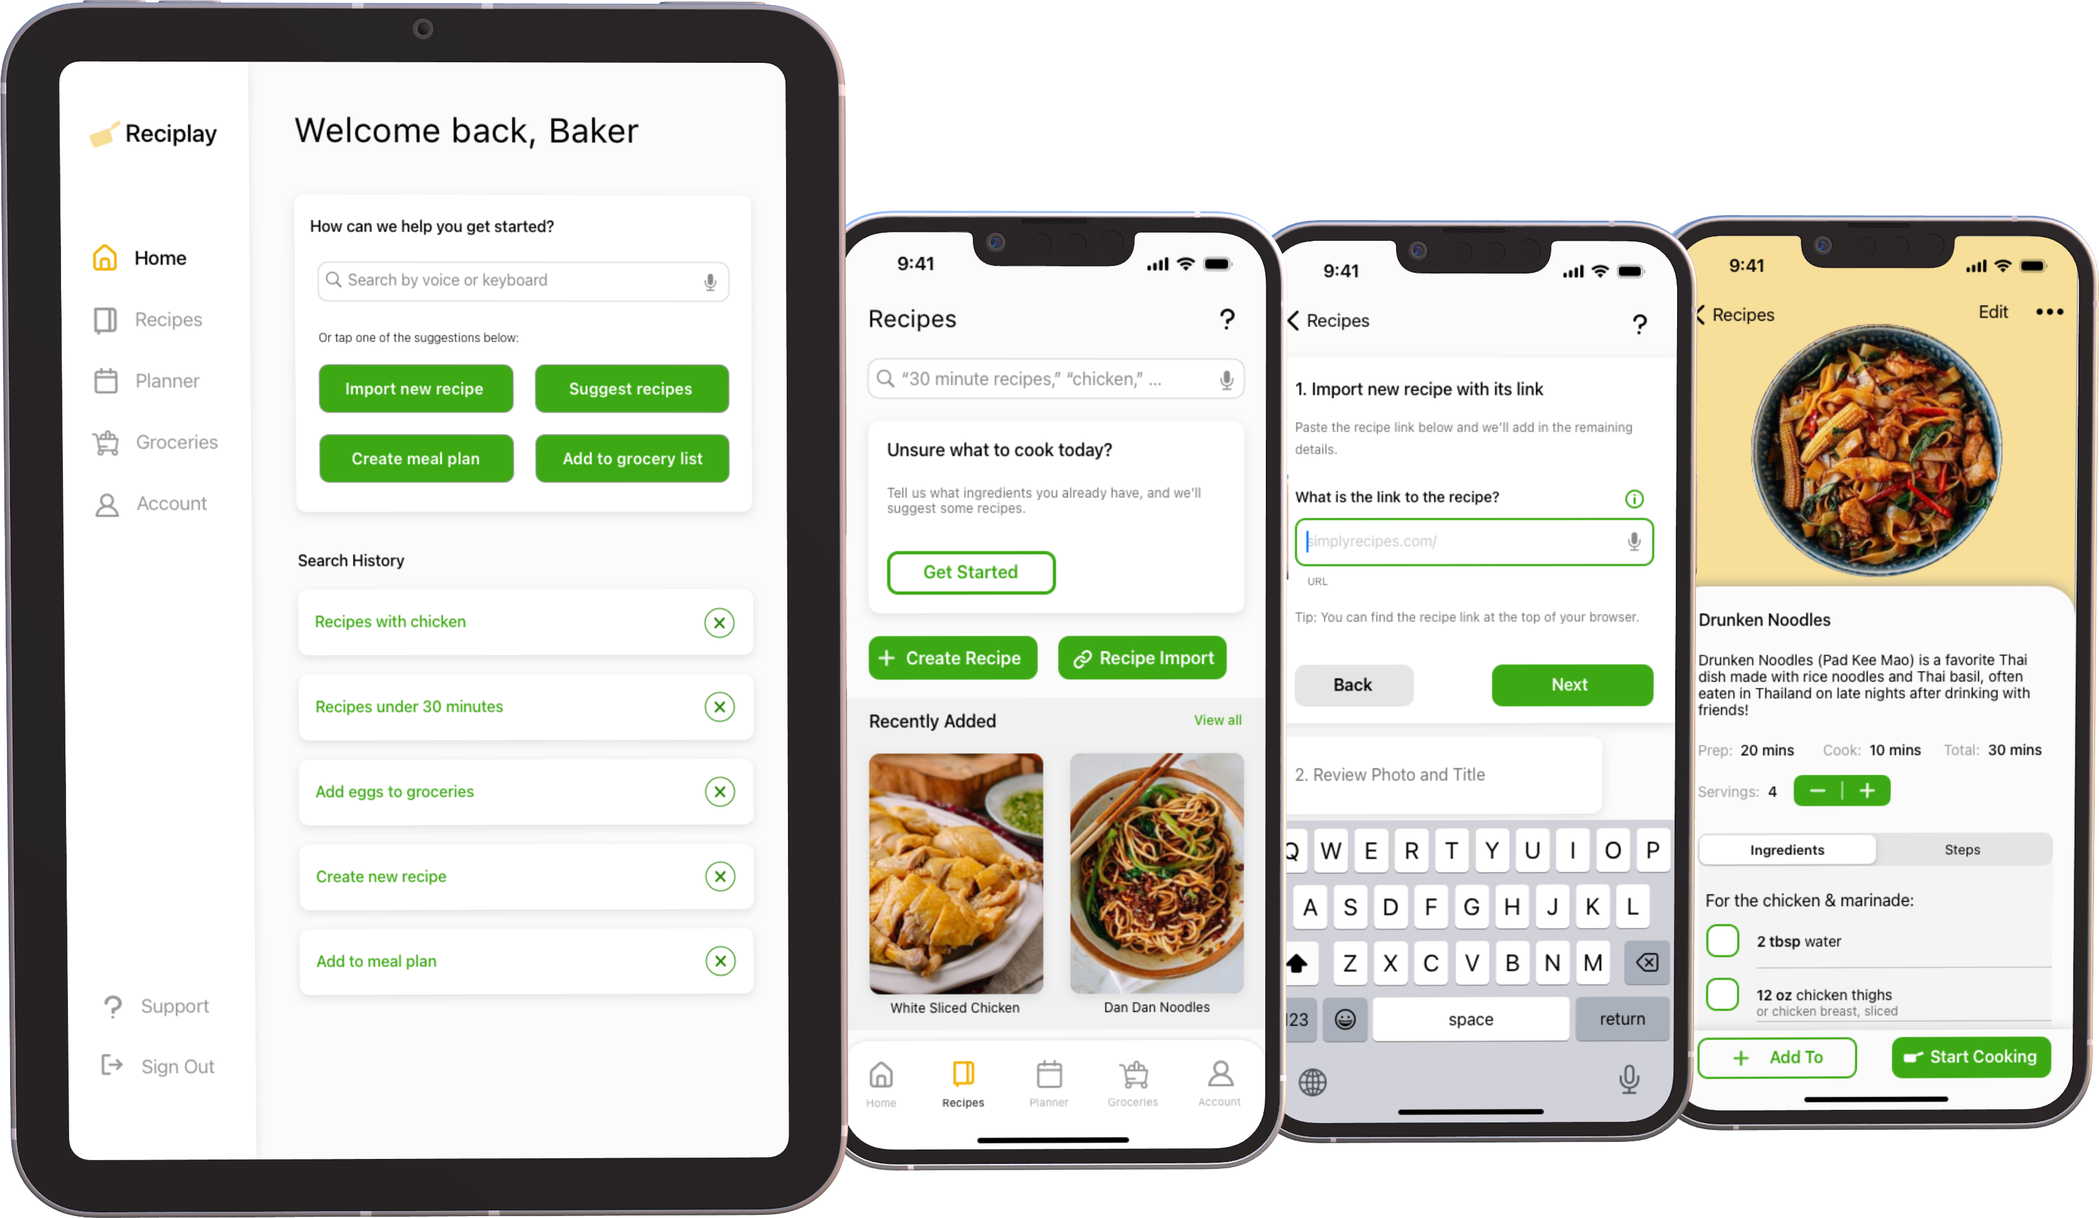
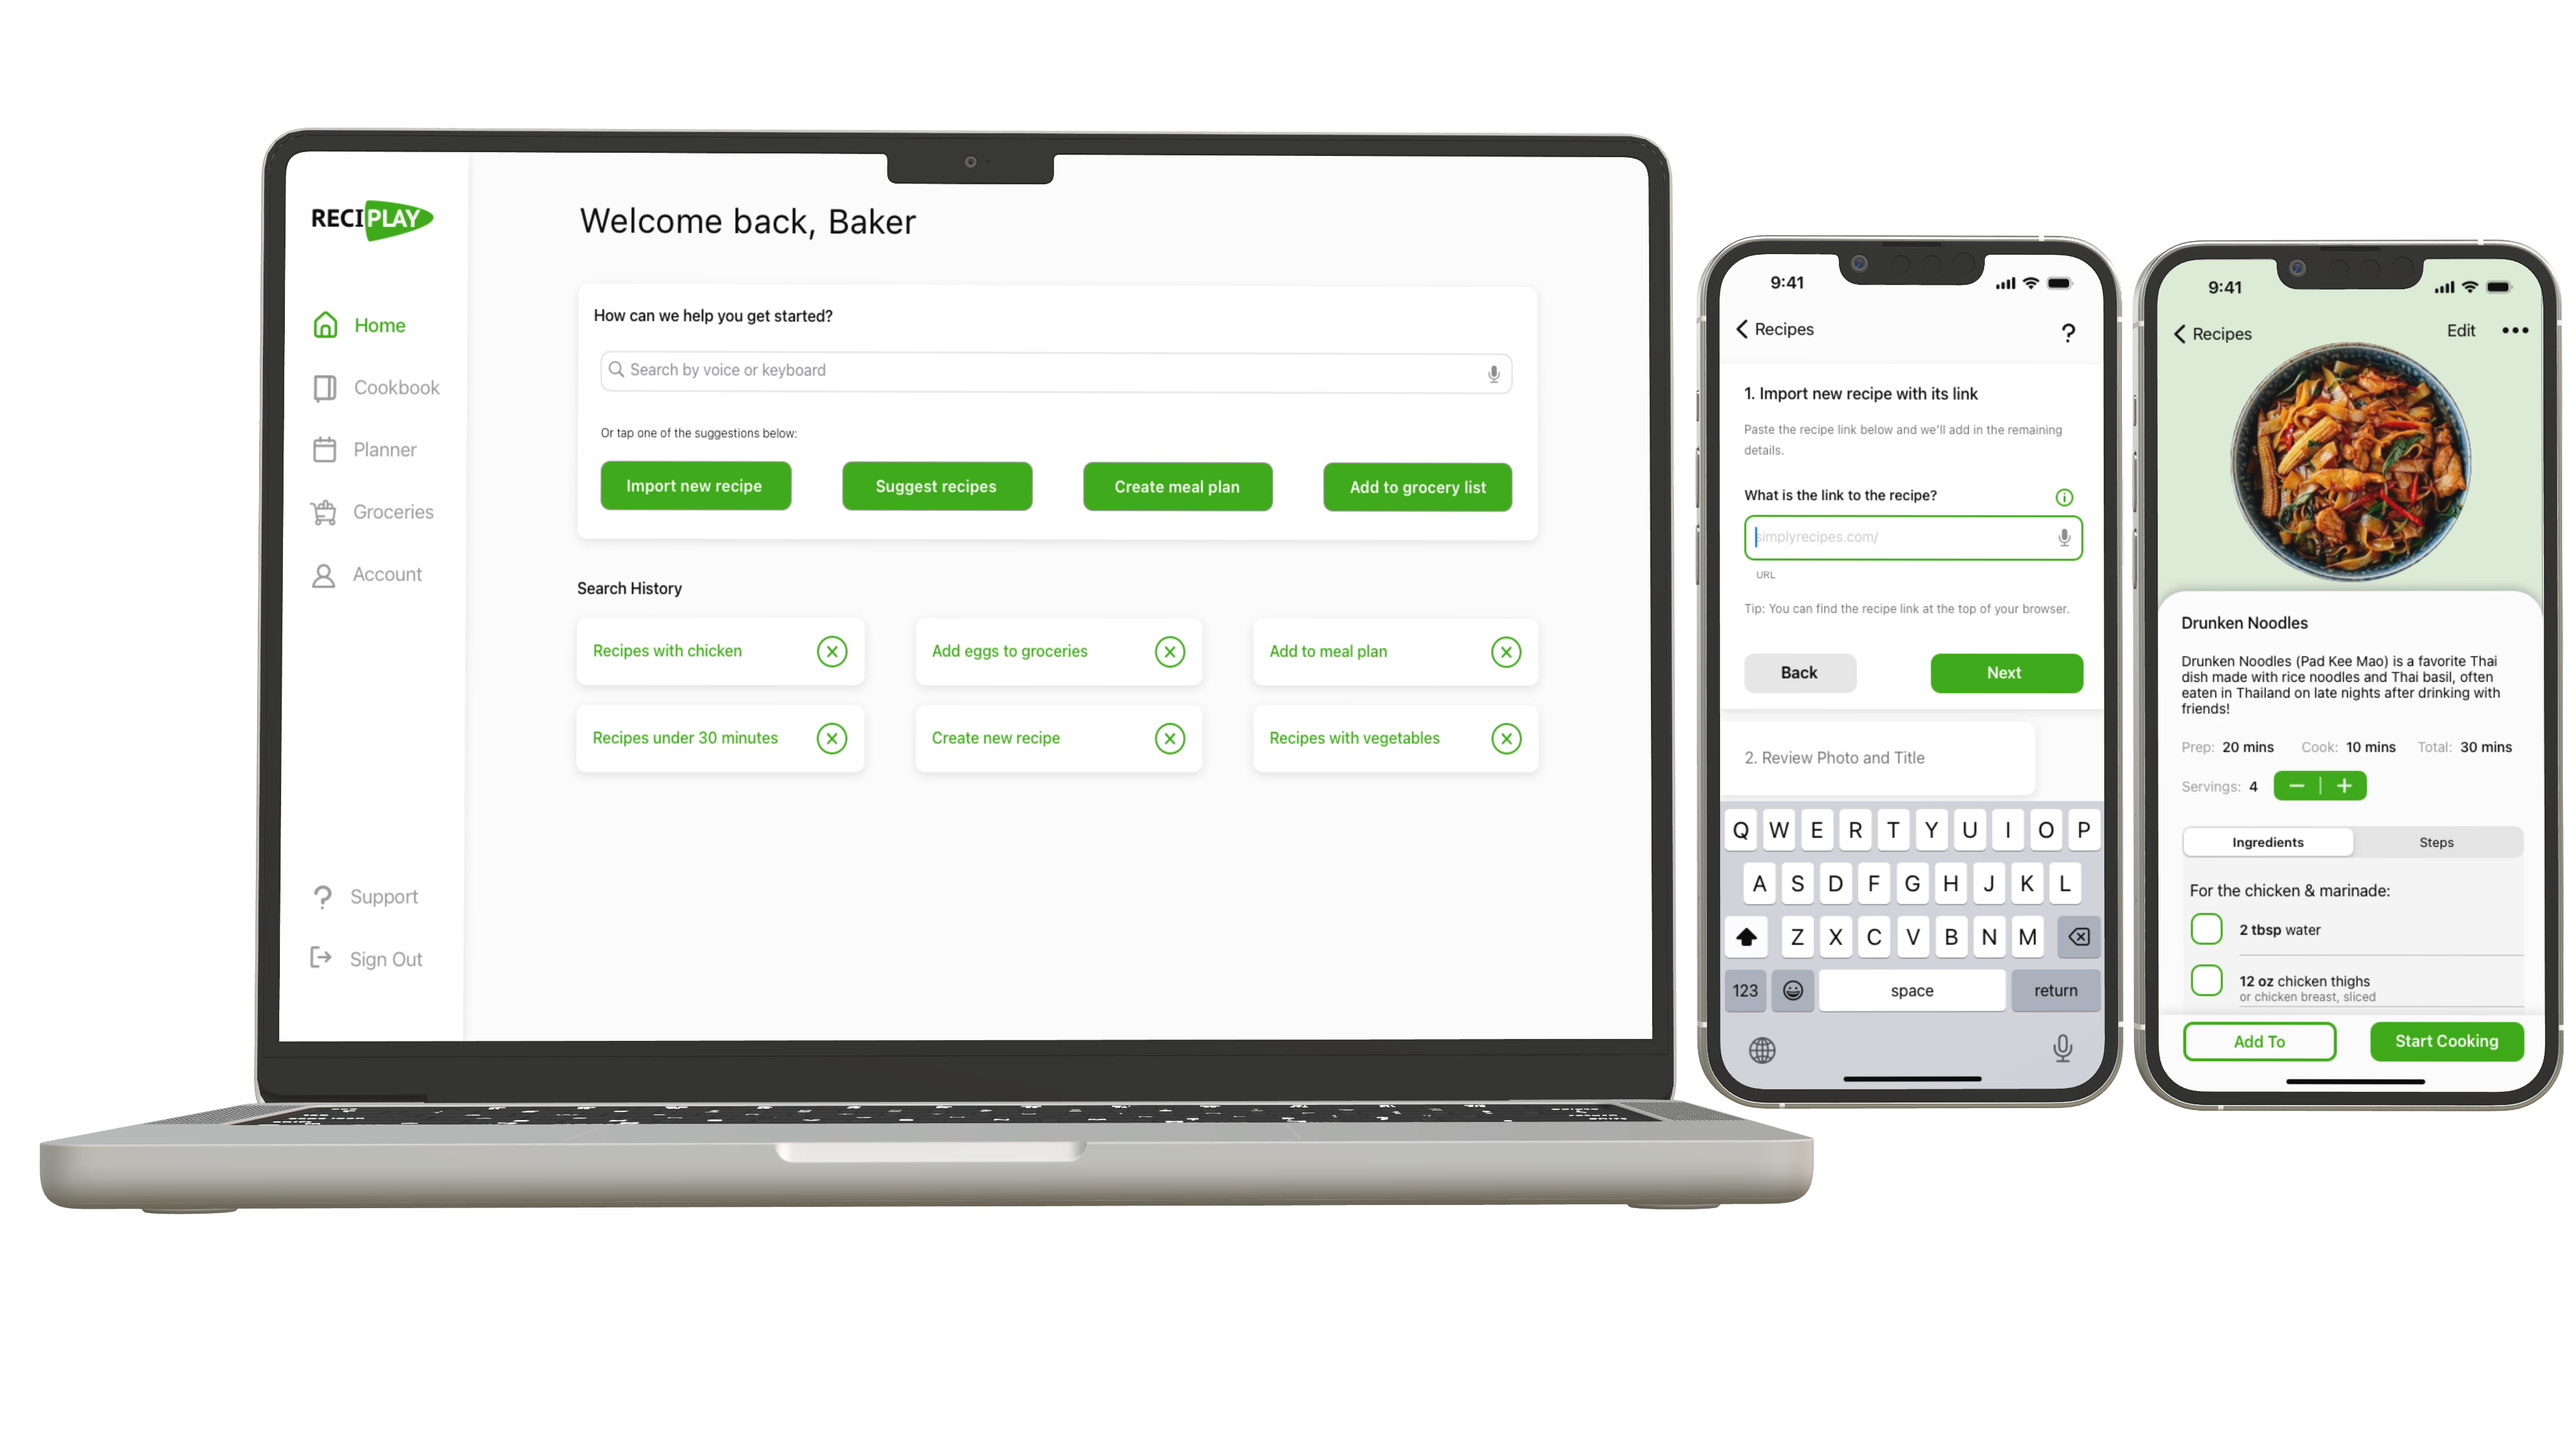
revision of cases

diff --git a/_layouts/case.html b/_layouts/case.html
@@ -91,6 +91,9 @@ layout: default
                     {% if page.overview.list %}
                     {% assign style = style | append: " work-img-list-linear" %}
                     {% endif %}
+                    {% if page.overview.row %}
+                    {% assign style = style | append: " work-img-list-row" %}
+                    {% endif %}
                     <div class='{{style}}'>
                         {% for example in page.overview.examples %}
                         <div class='work-img-list-block'>
@@ -486,7 +489,8 @@ layout: default
     </div>
     <div class='work-bottom-descriptions'>
         <div class='work-bottom-descriptions-inner work-wrapper work-cols'>
-            {% for case in site.cases %}
+            {% assign ordered_cases = site.cases | sort:"order_number" %}
+            {% for case in ordered_cases %}
             <div>
                 {% if case.title == page.title %}
                 <a class="work-bottom-descriptions-selected" href='{{case.url}}'>{{case.description}}</a>

diff --git a/_sass/default/_cases.scss b/_sass/default/_cases.scss
@@ -270,6 +270,33 @@
   }
 }
 
+.work-img-list-row {
+  display: flex;
+  flex-direction: row;
+  gap: $spacing-unit * 5;
+
+  @include media-query($on-palm) {
+    gap: $spacing-unit * 3;
+  }
+
+  @include media-query($on-tiny) {
+    flex-direction: column;
+    gap: $spacing-unit;
+  }
+}
+
+.work-img-list-row .work-img-list-block {
+  display: block;
+}
+
+.work-img-list-row .work-img-list-img {
+  min-width: 0;
+
+  @include media-query($on-tiny) {
+    margin: 0 auto;
+  }
+}
+
 // Captioned-Image
 
 .work-captioned-image {

diff --git a/index.html b/index.html
@@ -54,7 +54,8 @@ layout: default
     </div>
     <h1 id="work" class='hidden'>Work</h1>
     <div class='home-projects'>
-        {% for case in site.cases %}
+        {% assign ordered_cases = site.cases | sort:"order_number" %}
+        {% for case in ordered_cases %}
         <div class='home-project-container'>
             <div class='home-project home-project-{{case.name}}'>
                 <div class='home-project-inner home-wrapper'>

diff --git a/assets/nycbest/style.css b/assets/nycbest/style.css
@@ -15,5 +15,5 @@
 }
 
 .work-details-logo img {
-    max-height: 55px;
+    max-height: 80px;
 }

diff --git a/_cases/nycbest.md b/_cases/nycbest.md
@@ -1,5 +1,6 @@
 ---
 layout: case
+order_number: 3
 name: nycbest
 title: NYC's Best
 description: Redefining the pet adoption process
@@ -19,19 +20,16 @@ banner:
   duration: Dec - Feb 2023
   tool: Adobe XD
 overview:
-  problem: "Finding our new furry best friend and family member is one of the biggest decisions we make in our lives, yet available pet adoption sites often fail to reflect that reality. Whether you’re experienced or a first-time pet parent, you likely have your own, unique criteria that you’re looking for. Yet, **why is it so difficult to browse pet adoption sites?**"
+  problem: "Finding our new furry best friend and family member is one of the biggest decisions we make in our lives, yet existing pet adoption sites often fail to reflect that reality. Whether you’re experienced or a first-time pet parent, you likely have your own, unique criteria that you’re looking for. So, **why is it so difficult to browse pet adoption sites?**"
   examples:
-    - description: It often takes multiple clicks, each opening a new tab, to even reach the list of adoptable pets. Aside from the amount of clicks needed, the information is also cluttered and overwhelming to skim.
-      image: example1.png
+    - image: example1.png
       caption: Layout of existing pet adoption site
       rounded: true
-    - description: These sites often only cater to a specific user context– those using a computer–and fail to consider the needs of those accessing from a phone or tablet.
-      image: example2.png
   list: true
   solution:
     title: Redesigning the adoption flow
     description:
-      - paragraph: These pain points led me to to design a responsive website for a local pet adoption organization. Let’s call it NYC’s Best, a no-kill animal shelter with three locations in New York City. They are dedicated to rescuing, rehabilitating, and finding forever homes for homeless and abandoned cats, dogs, and rabbits.
+      - paragraph: My pain points with cluttered, overwhelming pet adoption sites led me to to design a responsive website for a local pet adoption organization. Let’s call it NYC’s Best, a no-kill animal shelter with three locations in New York City. They are dedicated to rescuing, rehabilitating, and finding forever homes for homeless and abandoned cats, dogs, and rabbits.
       - paragraph: “We’d like to help our patrons through the pet-finding process by **providing search options that mirror their own criteria.**”
         quote: true
       - paragraph: To stand out in the market, I aimed to design a user-friendly, responsive website that features **clear navigation** and **an efficient search and adoption process**. Above all, I wanted it to be a positive experience that reflects the *excitement* of starting a new chapter in your life.
@@ -43,7 +41,7 @@ research:
   personas:
     - title: The Dog Adopter
       age: 28
-      job: Dental hygienist
+      job: Dental Hygienist
       image: portrait1.png
       description:
         - Niamh is a dental hygienist at a clinic in Detroit. She’s finally reached a place in her life where she feels more settled, with a stable job and relationship. She’s always wanted to adopt a dog but wanted to wait until she felt ready.
@@ -53,8 +51,8 @@ research:
       job: College Senior
       image: portrait2.png
       description:
-        - Winston is a senior in college living in Seattle. He didn’t grow up with pets but he’s interested in adopting a cat because he’s heard that cats are better for first-time pet parents.
-        - He doesn’t know where to start so he’s looked at multiple animal shelter sites but decided to just go to a shelter in person after seeing the limited filters, vague personality descriptions, and complex adoption processes.
+        - Winston is a senior in college living in Seattle. He’s interested in adopting a cat as a first-time pet parent.
+        - He’s not sure what characteristics to base his search on with the limited filters and vague personality descriptions on existing sites. He’d rather save time by going to the shelters themselves if it weren’t for unclear adoption processes.
   challenges:
     description: "I reframed the insights from the research as improvement opportunities for the NYC’s Best site:"
     list:

diff --git a/_cases/reciplay.md b/_cases/reciplay.md
@@ -1,5 +1,6 @@
 ---
 layout: case
+order_number: 1
 name: reciplay
 title: Reciplay
 description: Empowering users new to technology
@@ -21,16 +22,14 @@ banner:
 overview:
   problem: "*What should I cook today?* &nbsp;The age-old question. Countless cookbook sites and apps have been created to address this dilemma in the digital age, **but do they really cater to every user?**"
   examples:
-    - description: Existing cookbook apps are often cluttered and difficult to navigate, with an overwhelming amount of information on each screen. These solutions were designed for users who are familiar with technology and who already have an understanding of how to navigate from screen to screen, what’s tappable and what’s not, and more.
-      image: example1.png
+    - image: example1.png
       rounded: true
       small: true
-    - description: For users who are new to technology, however, knowing what icons mean or how to even begin are significant barriers to using these apps.
   list: true
   solution:
     title: A tailored solution
     description: 
-      - paragraph: With these barriers in mind, I wanted to design a cookbook tool specifically for users who are new to technology. My goal was to create a cross-platform experience that inspires and empowers users to enjoy the process of cooking and trying new recipes. The solution would cover all parts of the cooking process, with features like **URL import** and **a cooking mode**. For this project, I focused on recipe saving and viewing for the main user flow.
+      - paragraph: For users who are new to technology, knowing what icons mean or how to even begin are significant barriers to using cookbook apps. I sought to design a cross-platform experience that inspires and empowers new technology users to enjoy the process of cooking and trying new recipes. The solution would cover all parts of the cooking process, with features like **URL import** and **a cooking mode**. For this project, I focused on recipe saving and viewing for the main user flow.
       - paragraph: “We'd like to create an empowering cookbook tool for users who are new to technology that enables them **to save and view their favorite recipes in one place**”
         quote: true
 research:
@@ -47,7 +46,7 @@ research:
       job: Retired
       image: portrait1.png
       description:
-        - Leo is a recently retired hairstylist living in Hoboken with their two cats. Now that they are retired, they’ve been trying new recipes from a cookbook. They usually write a list of the ingredients needed for a few recipes and buy them all in one trip.
+        - Leo is a recently retired hairstylist living in Hoboken. Now that they are retired, they’ve been trying new recipes from a cookbook. They usually write a list of the ingredients needed for a few recipes and buy them all in one trip.
         - They’d be open to learning how to use a cookbook app if it did all the tedious work for them, like calculating ingredient amounts and creating grocery lists.
     - title: The App User
       age: 75
@@ -130,6 +129,12 @@ solution:
             caption: First mockup - responsive site (tablet)
           - image: solution2_5.png
             caption: Final design - responsive site (tablet)
+        - row:
+          - image: solution2_6.png
+            caption: First mockup - responsive site (desktop)
+        - row:
+          - image: solution2_7.png
+            caption: Final design - responsive site (desktop)
       after: To simplify the cognitive load of navigation and orient the user, I created a homepage with tappable discovery interfaces and text and voice search options to provide users with multiple modes of discovery and interaction. I used this format for both the mobile app and the responsive site for a consistent cross-platform experience.
 final_designs:
   - details:

diff --git a/_cases/nonna.md b/_cases/nonna.md
@@ -1,5 +1,6 @@
 ---
 layout: case
+order_number: 2
 name: nonna
 title: Nonna's
 description: "Designing a stand-out food ordering app"
@@ -19,14 +20,13 @@ banner:
   duration: Sept - Dec 2022
   tool: Figma
 overview:
-  problem: Ordering food online through an app like DoorDash or Uber Eats has become second nature for many of us. It’s quick, convenient, and simple–but **have you ever encountered an issue tracking an order through these third-party delivery apps?**
+  problem: "Ordering food online through an app like DoorDash or Uber Eats has become second nature for many of us. It’s quick, convenient, and simple -- but **have you ever encountered an issue tracking an order through these third-party delivery apps?**"
   examples:
-    - description: In some cases, restaurants handle the food delivery themselves so you don’t know when to expect your order, you’ll only be given a time frame of when it *should* arrive.
-      image: problem1.png
+    - image: problem1.png
       rounded: true
-    - description:  In other cases, there may be no couriers in the area to pick up your order from the restaurant.
-      image: problem2.png
+    - image: problem2.png
       rounded: true
+  row: true
   solution:
     title: Why not eliminate the middleman?
     description:
@@ -43,18 +43,18 @@ research:
   personas:
     - title: The New Grad
       age: 24
-      job: Software Engineer
+      job: Financial Analust
       image: portrait1.png
       description:
-        - Araya recently started a new career as a software engineer at a startup after finishing coding bootcamp. They use the time after work to learn new skills so they usually order food for dinner instead of cooking.
+        - Araya has been working as a financial analyst in NYC since graduating from college. They work late hours so they usually order dinner from the office or pick it up on the way home.
         - They get frustrated by the lack of information involved in the pickup process with apps like Seamless. They often arrive at the expected order completion time only to wait longer than expected.
     - title: The Multitasking Parent
       age: 45
       job: Nurse
       image: portrait2.png
       description:
-        - Horace is a nurse at a major hospital in the city. He recently had a health scare and has committed to cutting red meat out of his diet. His schedule can be unpredictable so he gets food from restaurants near the hospital.
-        - He prefers to order from the restaurant’s site but is often forced to choose another restaurant when there are no options to add notes to a menu item or the order itself.
+        - Horace is a single father working at a major hospital in the city. His schedule can be unpredictable so he prefers to order food from restaurants instead of getting groceries that may expire.
+        - He orders meals based on his daughter’s food preferences and schedule so he gets frustrated when there are no options to add notes or request cutlery.
   challenges:
     description: "After mapping out each step of these users’ journey, I discovered the following key challenges that weren’t addressed by third-party food delivery apps like Seamless and ChowNow:"
     list:

diff --git a/README.md b/README.md
@@ -1,0 +1,6 @@
+# Julia Santoro Portfolio
+
+## Mov to Gif
+```bash
+ffmpeg -ss 00:00:00.000 -i design1.mov -pix_fmt rgb24 -r 30 -s 780x1684 -t 00:00:7.000 design1.gif
+```
